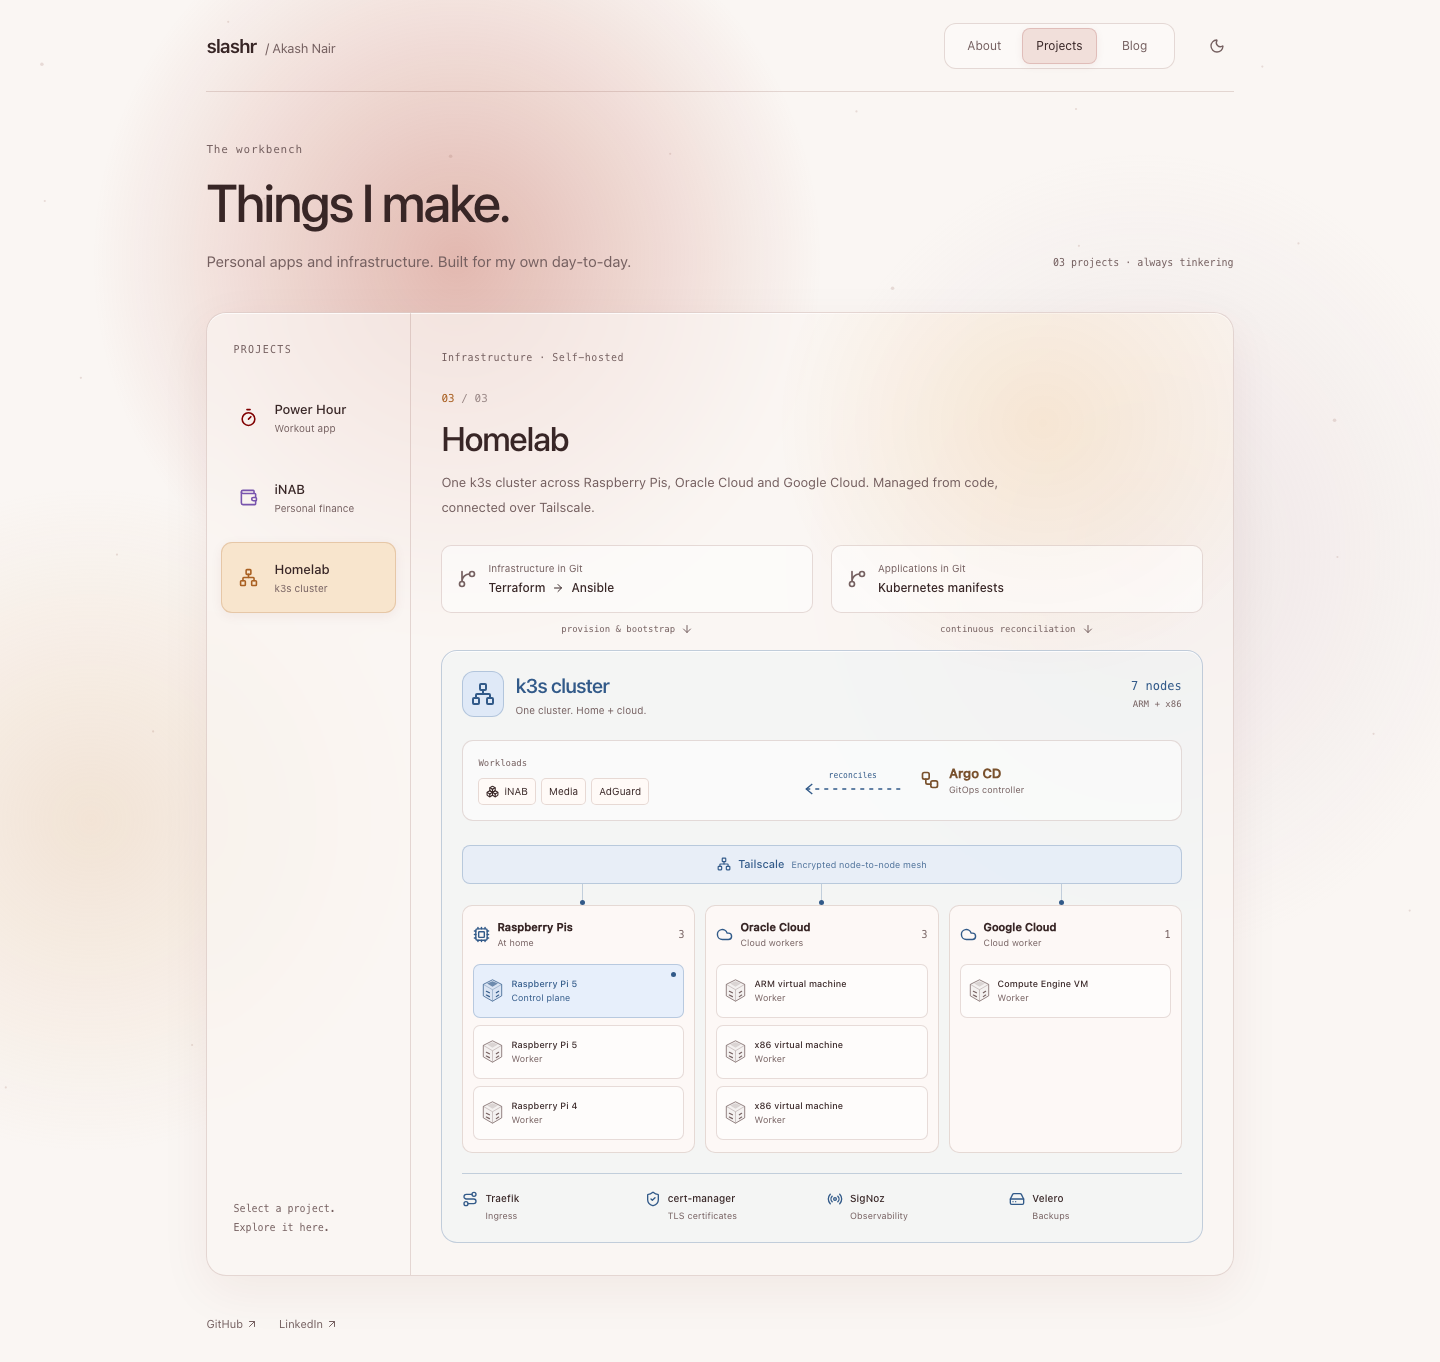
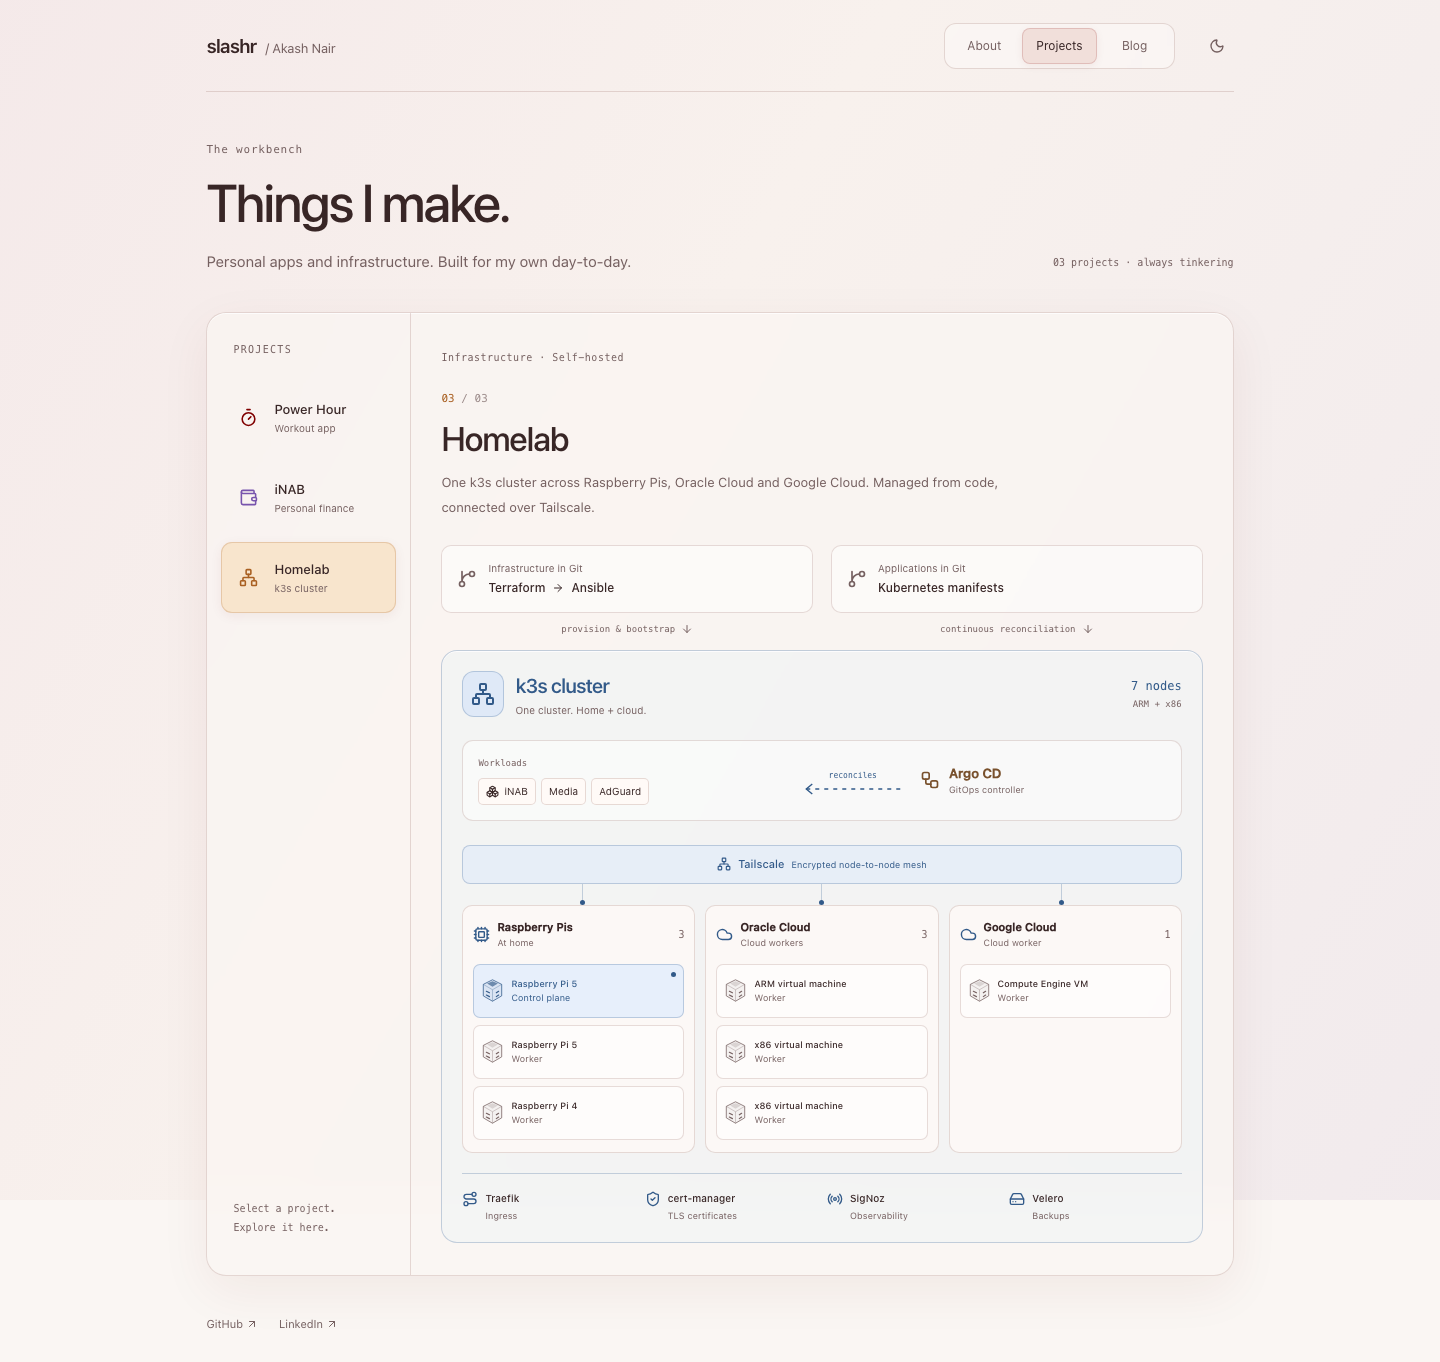
Replace patchy ambient lights with a smooth drifting gradient

Changed region(s): [[0.1875, 0.0308, 0.4688, 0.2467], [0.6875, 0.2775, 0.7812, 0.37]]

diff --git a/app/globals.css b/app/globals.css
@@ -11,9 +11,9 @@
   --accent: var(--maroon);
   --accent-soft: var(--maroon-soft);
   --shadow: light-dark(#6b1c1310, #0000002b);
-  --wash-maroon: light-dark(#b84b395c, #80231d77);
-  --wash-violet: light-dark(#ceb9c448, #66505d3d);
-  --wash-orange: light-dark(#e1bb9550, #9b69433d);
+  --ambient-rose: light-dark(#f2e4e7, #301e27);
+  --ambient-neutral: light-dark(#f8f1ed, #281e24);
+  --ambient-plum: light-dark(#eee7ed, #28212d);
 }
 html[data-theme="light"] {
   color-scheme: light;
@@ -195,59 +195,32 @@ h1 {
   overflow: hidden;
   pointer-events: none;
 }
-.light-wash {
+.ambient-gradient {
   position: absolute;
-  width: 770px;
-  height: 800px;
-  top: -140px;
-  left: 5%;
-  background: radial-gradient(ellipse, var(--wash-maroon), transparent 67%);
-  will-change: transform;
-  animation: wander 21s ease-in-out infinite alternate;
+  inset: -30%;
+  background: linear-gradient(
+    120deg,
+    var(--ambient-rose) 0%,
+    var(--ambient-neutral) 45%,
+    var(--ambient-plum) 100%
+  );
+  animation: gradient-drift 32s ease-in-out infinite alternate;
 }
-.wash-lilac {
-  width: 760px;
-  height: 850px;
-  left: 53%;
-  top: 130px;
-  background: radial-gradient(ellipse, var(--wash-violet), transparent 67%);
-  animation-duration: 27s;
-  animation-direction: alternate-reverse;
-}
-.wash-peach {
-  width: 700px;
-  height: 700px;
-  left: -18%;
-  top: 470px;
-  background: radial-gradient(ellipse, var(--wash-orange), transparent 67%);
-  animation-duration: 31s;
-  animation-delay: -9s;
-}
-.ambient-network {
-  position: absolute;
-  width: 100%;
-  height: 100%;
-  inset: 0;
-  color: light-dark(#98685c, #c39c8e);
-  opacity: 0.55;
-}
-html[data-motion="off"] .light-wash {
+html[data-motion="off"] .ambient-gradient,
+.ambient[data-hidden="true"] .ambient-gradient {
   animation-play-state: paused;
 }
 [data-project="power-hour"] {
   --accent: var(--maroon);
   --accent-soft: var(--maroon-soft);
-  --project-glow: light-dark(#b84b3930, #b45c4426);
 }
 [data-project="inab"] {
   --accent: light-dark(#7854ad, #d0b8f7);
   --accent-soft: light-dark(#e8def6, #483358);
-  --project-glow: light-dark(#c0a1ec3b, #a582cb24);
 }
 [data-project="homelab"] {
   --accent: light-dark(#a96022, #f4c08b);
   --accent-soft: light-dark(#f8e5cd, #513d29);
-  --project-glow: light-dark(#f1bf7d40, #c4965524);
 }
 .workbench {
   display: grid;
@@ -264,17 +237,6 @@ html[data-motion="off"] .light-wash {
     0 15px 50px var(--shadow);
   overflow: hidden;
   transition: box-shadow 0.4s ease;
-}
-.workbench::before {
-  content: "";
-  position: absolute;
-  top: -150px;
-  right: -80px;
-  width: 540px;
-  height: 520px;
-  pointer-events: none;
-  background: radial-gradient(ellipse, var(--project-glow), transparent 70%);
-  z-index: -1;
 }
 .project-rail {
   padding: 28px 14px;
@@ -788,12 +750,12 @@ html[data-motion="off"] .light-wash {
   gap: 12px;
   margin-top: 28px;
 }
-@keyframes wander {
+@keyframes gradient-drift {
   from {
-    transform: translate(-90px, -70px) scale(0.9);
+    transform: translate3d(-8%, -4%, 0) rotate(-6deg);
   }
   to {
-    transform: translate(160px, 130px) scale(1.2);
+    transform: translate3d(8%, 4%, 0) rotate(6deg);
   }
 }
 @media (min-width: 1450px) {
@@ -1055,26 +1017,12 @@ html[data-motion="off"] .light-wash {
   .not-found > div {
     flex-wrap: wrap;
   }
-  .light-wash {
-    left: -65%;
-    top: -50px;
-    width: 600px;
-    height: 750px;
-  }
-  .wash-lilac {
-    left: -25%;
-    top: 390px;
-  }
-  .wash-peach {
-    left: -80%;
-    top: 800px;
-  }
 }
 @media (prefers-reduced-motion: reduce) {
   html {
     scroll-behavior: auto;
   }
-  .light-wash {
+  .ambient-gradient {
     animation: none;
   }
   *,
@@ -1710,7 +1658,6 @@ html[data-motion="off"] .mascot-stage {
 }
 .architecture-mesh > span {
   font-size: 9px;
-  opacity: 0.85;
 }
 .architecture-mesh-branches {
   display: grid;

diff --git a/components/ambient-background.tsx b/components/ambient-background.tsx
@@ -1,96 +1,20 @@
 "use client";
 import { useEffect, useRef } from "react";
-import { usePreferences } from "./preferences";
 
 export function AmbientBackground() {
-  const canvas = useRef<HTMLCanvasElement>(null);
-  const { motion, dark } = usePreferences();
+  const background = useRef<HTMLDivElement>(null);
   useEffect(() => {
-    const element = canvas.current;
-    if (!element) return;
-    const context = element.getContext("2d");
-    if (!context) return;
-    let width = 0,
-      height = 0,
-      frame = 0,
-      previous = 0;
-    let nodes: { x: number; y: number; vx: number; vy: number }[] = [];
-    function draw(delta = 0) {
-      if (!context || !element) return;
-      context.clearRect(0, 0, width, height);
-      context.fillStyle = context.strokeStyle = getComputedStyle(element).color;
-      for (const node of nodes) {
-        node.x = (node.x + node.vx * delta + width) % width;
-        node.y = (node.y + node.vy * delta + height) % height;
-      }
-      for (let i = 0; i < nodes.length; i++) {
-        const a = nodes[i];
-        for (let j = i + 1; j < nodes.length; j++) {
-          const b = nodes[j],
-            distance = Math.hypot(a.x - b.x, a.y - b.y);
-          if (distance < 140) {
-            context.globalAlpha = (1 - distance / 140) * 0.15;
-            context.lineWidth = 0.7;
-            context.beginPath();
-            context.moveTo(a.x, a.y);
-            context.lineTo(b.x, b.y);
-            context.stroke();
-          }
-        }
-        context.globalAlpha = 0.35;
-        context.beginPath();
-        context.arc(a.x, a.y, i % 5 === 0 ? 1.8 : 1.1, 0, Math.PI * 2);
-        context.fill();
-      }
-      context.globalAlpha = 1;
-    }
-    function resize() {
-      if (!element || !context) return;
-      width = element.clientWidth;
-      height = element.clientHeight;
-      const scale = Math.min(devicePixelRatio || 1, 1.5);
-      element.width = Math.round(width * scale);
-      element.height = Math.round(height * scale);
-      context.setTransform(scale, 0, 0, scale, 0, 0);
-      nodes = Array.from({ length: width < 600 ? 22 : 45 }, (_, i) => ({
-        x: (((i * 179 + 29) % 997) / 997) * width,
-        y: (((i * 257 + 53) % 991) / 991) * height,
-        vx: Math.cos(i * 2.4) * 5,
-        vy: Math.sin(i * 1.7 + 1) * 5,
-      }));
-      draw();
-    }
-    function tick(time: number) {
-      frame = 0;
-      if (!motion || document.hidden) return;
-      if (time - previous >= 32) {
-        draw(Math.min((time - (previous || time)) / 1000, 0.05));
-        previous = time;
-      }
-      frame = requestAnimationFrame(tick);
-    }
     const sync = () => {
-      cancelAnimationFrame(frame);
-      previous = 0;
-      if (motion && !document.hidden) frame = requestAnimationFrame(tick);
+      if (background.current)
+        background.current.dataset.hidden = String(document.hidden);
     };
-    const observer = new ResizeObserver(resize);
-    observer.observe(element);
-    document.addEventListener("visibilitychange", sync);
-    resize();
     sync();
-    return () => {
-      observer.disconnect();
-      cancelAnimationFrame(frame);
-      document.removeEventListener("visibilitychange", sync);
-    };
-  }, [motion, dark]);
+    document.addEventListener("visibilitychange", sync);
+    return () => document.removeEventListener("visibilitychange", sync);
+  }, []);
   return (
-    <div className="ambient" aria-hidden="true">
-      <div className="light-wash wash-maroon" />
-      <div className="light-wash wash-lilac" />
-      <div className="light-wash wash-peach" />
-      <canvas className="ambient-network" ref={canvas} />
+    <div className="ambient" aria-hidden="true" ref={background}>
+      <div className="ambient-gradient" />
     </div>
   );
 }

diff --git a/e2e/portfolio.spec.ts b/e2e/portfolio.spec.ts
@@ -93,6 +93,7 @@ test("actual screenshots load, cycle, and enlarge in an accessible dialog", asyn
 test("the homelab architecture groups home and cloud nodes inside one k3s cluster", async ({
   page,
 }) => {
+  await page.emulateMedia({ reducedMotion: "reduce", colorScheme: "light" });
   const external: string[] = [];
   page.on("request", (request) => {
     if (new URL(request.url()).origin !== "http://127.0.0.1:4173")
@@ -125,6 +126,10 @@ test("the homelab architecture groups home and cloud nodes inside one k3s cluste
   expect(external).toEqual([]);
   for (const colorScheme of ["light", "dark"] as const) {
     await page.emulateMedia({ colorScheme, reducedMotion: "reduce" });
+    await expect(page.locator("html")).toHaveAttribute(
+      "data-theme",
+      colorScheme,
+    );
     const results = await new AxeBuilder({ page })
       .withTags(["wcag2a", "wcag2aa", "wcag21aa"])
       .analyze();
